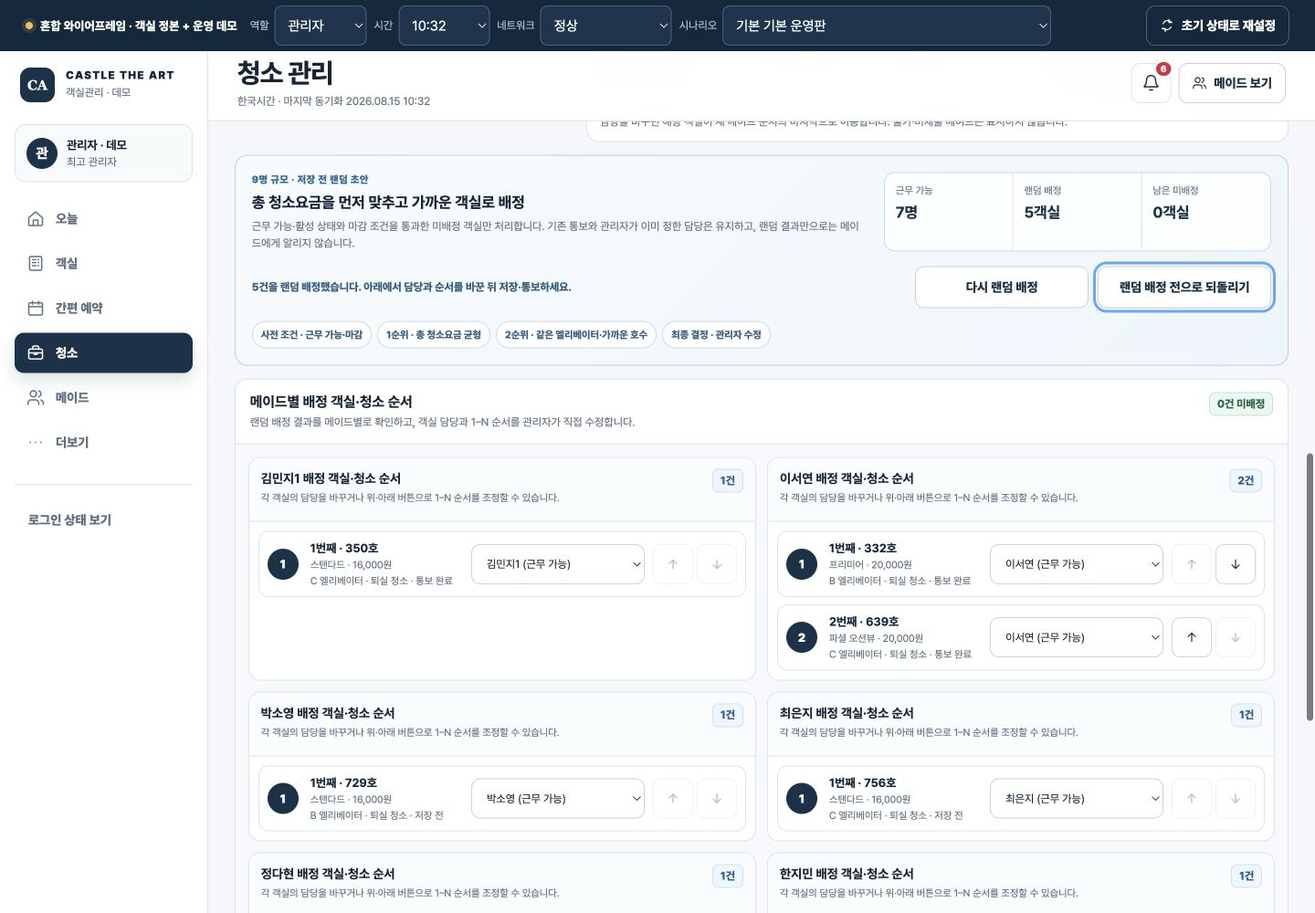
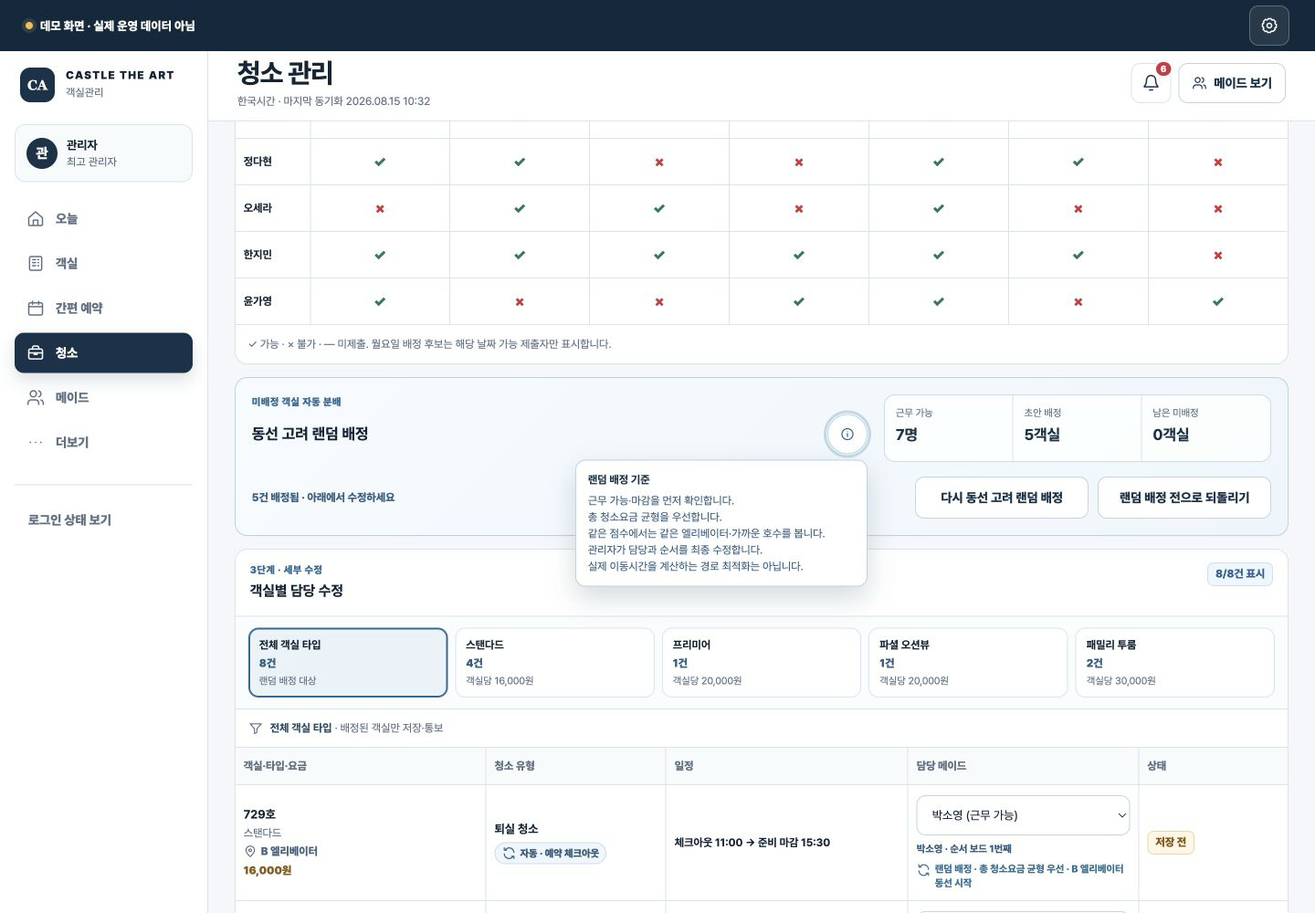
feat: 청소 배정 흐름을 단순화하라

diff --git a/WIREFRAME/index.html b/WIREFRAME/index.html
@@ -1122,10 +1122,10 @@
     .assignment-summary small { display:block; margin-top:2px; color:var(--subtle); font-size:12px; }
     .assignment-summary .summary-good strong { color:var(--green); }
     .assignment-summary .summary-warn strong { color:var(--red); }
-    .assignment-grid { display:grid; grid-template-columns:minmax(330px,.7fr) minmax(680px,1.45fr); gap:14px; align-items:start; }
     .assignment-panel { overflow:hidden; }
     .assignment-panel-head { display:flex; align-items:flex-start; gap:10px; padding:14px 16px; border-bottom:1px solid var(--line); }
     .assignment-panel-head > div { min-width:0; flex:1; }
+    .assignment-step-label { display:block; margin-bottom:4px; color:#2c6b94; font-size:11px; font-weight:900; letter-spacing:.04em; }
     .assignment-panel-head h3 { margin:0 0 2px; }
     .assignment-panel-head p { margin:0; color:var(--muted); font-size:12px; }
     .availability-matrix-wrap, .assignment-table-wrap { overflow:auto; }
@@ -1211,6 +1211,9 @@
     .maid-order-copy { min-width:0; display:grid; gap:2px; }
     .maid-order-copy strong { font-size:13px; line-height:1.35; }
     .maid-order-copy span { color:var(--muted); font-size:11px; line-height:1.4; }
+    .maid-order-item.has-schedule-attention { border-color:#a9c5df; background:#f8fbff; box-shadow:inset 3px 0 0 #245fa6; }
+    .maid-order-schedule-badges { display:flex; flex-wrap:wrap; gap:5px; margin:4px 0 3px; }
+    .maid-order-schedule-badges .schedule-priority-badge { max-width:100%; min-height:32px; padding:5px 8px; border-radius:9px; color:#fff; font-size:10px; white-space:normal; }
     .maid-order-controls { display:flex; gap:4px; }
     .maid-order-assignee { min-width:0; }
     .maid-order-assignee .select-control { width:100%; min-height:44px; font-size:12px; }
@@ -1224,8 +1227,19 @@
     .assignment-random { display:grid; grid-template-columns:minmax(0,1.35fr) minmax(330px,.85fr); gap:14px 18px; padding:18px; border-color:#b9d3e5; background:linear-gradient(135deg,#f7fbfe 0%,#edf6fb 100%); }
     .assignment-random-copy { min-width:0; }
     .random-kicker { display:block; margin-bottom:5px; color:#2c6b94; font-size:11px; font-weight:900; letter-spacing:.04em; }
-    .assignment-random h3 { margin:0 0 5px; font-size:1.05rem; }
+    .assignment-random-title-row { display:flex; align-items:center; justify-content:space-between; gap:7px; }
+    .assignment-random h3 { min-width:0; flex:1; margin:0; font-size:1.05rem; }
     .assignment-random p { margin:0; color:var(--muted); font-size:12px; line-height:1.55; }
+    .assignment-rule-help { position:relative; flex:0 0 auto; }
+    .assignment-rule-help-button { display:inline-grid; place-items:center; width:44px; height:44px; padding:0; border:0; border-radius:999px; color:#315d83; background:transparent; cursor:help; }
+    .assignment-rule-help-button:hover, .assignment-rule-help-button:focus-visible { background:#fff; box-shadow:inset 0 0 0 1px #b9d3e5; }
+    .assignment-rule-help-button:focus-visible { outline:3px solid rgba(31,111,155,.24); outline-offset:1px; }
+    .assignment-rule-tooltip { position:absolute; z-index:30; top:calc(100% + 6px); right:0; width:min(320px,calc(100vw - 40px)); padding:12px 13px; border:1px solid #b9d3e5; border-radius:11px; background:#fff; box-shadow:0 12px 28px rgba(24,45,69,.18); color:#315d83; font-size:12px; line-height:1.5; opacity:0; visibility:hidden; transform:translateY(-4px); transition:opacity .14s ease,transform .14s ease,visibility .14s ease; pointer-events:auto; }
+    .assignment-rule-tooltip::before { content:""; position:absolute; inset:-8px 0 auto; height:8px; }
+    .assignment-rule-tooltip strong { display:block; margin-bottom:5px; color:var(--navy); }
+    .assignment-rule-tooltip span { display:block; }
+    .assignment-rule-help:hover .assignment-rule-tooltip, .assignment-rule-help:focus-within .assignment-rule-tooltip { opacity:1; visibility:visible; transform:translateY(0); }
+    .assignment-rule-help.is-dismissed .assignment-rule-tooltip { opacity:0; visibility:hidden; transform:translateY(-4px); }
     .assignment-random-stats { display:grid; grid-template-columns:repeat(3,minmax(0,1fr)); overflow:hidden; border:1px solid #c6dce9; border-radius:12px; background:rgba(255,255,255,.8); }
     .assignment-random-stats > div { min-height:72px; padding:11px 12px; border-right:1px solid #d4e3ed; }
     .assignment-random-stats > div:last-child { border-right:0; }
@@ -1234,8 +1248,6 @@
     .assignment-random-actions { grid-column:1/-1; display:flex; align-items:center; gap:10px; padding-top:2px; }
     .random-live { min-width:0; flex:1; color:#315d83; font-size:12px; font-weight:750; }
     .assignment-random-actions .btn { min-width:190px; min-height:46px; }
-    .random-rule { grid-column:1/-1; display:flex; flex-wrap:wrap; gap:6px; }
-    .random-rule span { display:inline-flex; align-items:center; min-height:30px; padding:5px 9px; border:1px solid #c6dce9; border-radius:999px; color:#315d83; background:#fff; font-size:11px; font-weight:800; }
     .assignment-random-note { display:flex; align-items:flex-start; gap:4px; color:#2b6f94; font-size:11px; font-weight:800; line-height:1.4; }
     .assignment-random-note.is-warning { color:#9b5d09; }
     .assignment-random-note .icon { flex:0 0 auto; margin-top:1px; }
@@ -1306,9 +1318,6 @@
     .assigned-preview-grid span { display:block; color:var(--muted); font-size:12px; }
     .assigned-preview-grid strong { display:block; margin-top:2px; font-size:14px; }
 
-    @media (max-width:1280px) {
-      .assignment-grid { grid-template-columns:1fr; }
-    }
     @media (max-width:900px) {
       .assignment-random { grid-template-columns:1fr; }
       .assignment-random-actions { align-items:stretch; flex-direction:column; }
@@ -1343,8 +1352,6 @@
       .assignment-random { gap:12px; padding:14px; }
       .assignment-random-stats > div { min-height:66px; padding:9px; }
       .assignment-random-stats strong { font-size:.95rem; }
-      .random-rule { display:grid; grid-template-columns:repeat(2,minmax(0,1fr)); }
-      .random-rule span { justify-content:center; border-radius:9px; text-align:center; }
       .maid-order-board { grid-template-columns:1fr; padding:10px; }
       .maid-order-item { grid-template-columns:38px minmax(0,1fr); }
       .maid-order-assignee, .maid-order-controls { grid-column:2; }
@@ -1529,6 +1536,7 @@
         logout: '<path d="M10 17l5-5-5-5M15 12H3"/><path d="M15 3h4a2 2 0 0 1 2 2v14a2 2 0 0 1-2 2h-4"/>',
         candle: '<path d="M9 22V9h6v13M8 22h8M12 9c-2-2-1-5 1-7 1 2 3 3 2 5-.5 1-1.5 2-3 2z"/>',
         sync: '<path d="M20 11a8 8 0 0 0-14.8-4M4 3v4h4M4 13a8 8 0 0 0 14.8 4M20 21v-4h-4"/>',
+        info: '<circle cx="12" cy="12" r="9"/><path d="M12 11v5M12 8h.01"/>',
         lock: '<rect x="4" y="10" width="16" height="11" rx="2"/><path d="M8 10V7a4 4 0 0 1 8 0v3"/>'
       };
 
@@ -2533,7 +2541,7 @@
         root.querySelectorAll('p').forEach(paragraph=>{if(!paragraph.closest('.notice')&&/서버 영속|fixture|스냅샷|불변 사용자 ID|PIN lease|식별값|이력 연결키|원장 비연결|예약 가능과 현재 입실 가능을 별도로 판단|사진 원본은 앱에 저장하지 않음/.test(paragraph.textContent))paragraph.remove();});
         root.querySelectorAll('.meta').forEach(meta=>{if(/데모|스냅샷|정본/.test(meta.textContent))meta.remove();});
         addAdminHelp(root,'총 청소요금을 먼저 맞추고 가까운 객실로 배정','random-assignment','랜덤 배정','근무 가능한 메이드의 총 청소요금이 비슷해지도록 먼저 나누고, 같은 엘리베이터와 가까운 호수를 다음 기준으로 사용합니다. 결과는 저장 전에 담당과 순서를 바꿀 수 있습니다.',{rename:'랜덤 배정'});
-        addAdminHelp(root,'메이드별 배정 객실·청소 순서','assignment-result','배정 결과 수정','객실별 담당 메이드를 바꾸고 위·아래 버튼으로 1번부터 순서를 정하세요. 담당과 순서가 정해진 객실만 저장·통보됩니다.',{rename:'배정 결과 수정'});
+        addAdminHelp(root,'메이드별 청소 순서 수정','assignment-result','청소 순서 수정','얼리 체크인·레이트 체크아웃의 예정 시각을 먼저 확인하고, 객실별 담당 메이드를 바꾸거나 위·아래 버튼으로 1번부터 순서를 정하세요. 담당과 순서가 정해진 객실만 저장·통보됩니다.');
         addAdminHelp(root,'내일 청소 배정','next-day-assignment','내일 청소 배정','근무 가능일을 제출한 메이드에게만 배정할 수 있습니다. 랜덤 배정 뒤에도 객실별 담당과 메이드별 청소 순서를 직접 바꾼 다음 저장·통보하세요.');
         addAdminHelp(root,'주간 근무 기록','work-history','주간 근무 기록','명은 해당 기록이 있는 메이드 수이고, 일은 메이드별 기록 날짜를 합한 값입니다. 가능 제출·담당 통보·실근무 완료를 서로 다른 표시로 확인합니다.');
         addAdminHelp(root,'주별 지급 이력','weekly-pay','주별 지급 이력','월요일부터 일요일까지의 승인 청소를 합산합니다. 검수 대기는 예상액에만, 전체 반려와 본인 재청소는 0원으로 표시됩니다.');
@@ -3962,22 +3970,19 @@
         return `<span class="assignment-route-reference">${esc(maidName(assignment.maidId))} · 순서 보드 ${assignment.order}번째</span>${randomAssignmentNote(item)}`;
       }
       function maidOrderItemMarkup(item,ordered,index) {
-        const assignment=assignmentFor(item),context=assignmentContext(item),name=maidName(assignment.maidId),first=index===0,last=index===ordered.length-1,status=assignment.status==='notified'?'통보 완료':'저장 전';
-        return `<article class="maid-order-item"><span class="maid-order-number" aria-hidden="true">${assignment.order}</span><div class="maid-order-copy"><strong>${assignment.order}번째 · ${item.room}호</strong><span>${esc(context.type.name)} · ${money(context.type.rate)}</span><span>${esc(elevatorLabel(context.room))} · ${esc(item.kind)} · ${status}</span></div><label class="maid-order-assignee"><span class="sr-only">${item.room}호 담당 메이드 변경</span><select class="select-control" data-control="assignment-maid" data-location="board" data-target="${esc(item.id)}" aria-label="${item.room}호 ${esc(item.kind)} 담당 메이드 변경">${assignmentOptions(item)}</select></label><div class="maid-order-controls"><button class="assignment-order-btn" type="button" data-action="move-assignment-order" data-target="${esc(item.id)}" data-direction="up" aria-label="${esc(name)}의 ${item.room}호 청소 순서를 위로 이동" ${first?'disabled':''}>${icon('arrowUp','icon-sm')}</button><button class="assignment-order-btn" type="button" data-action="move-assignment-order" data-target="${esc(item.id)}" data-direction="down" aria-label="${esc(name)}의 ${item.room}호 청소 순서를 아래로 이동" ${last?'disabled':''}>${icon('arrowDown','icon-sm')}</button></div></article>`;
+        const assignment=assignmentFor(item),context=assignmentContext(item),name=maidName(assignment.maidId),first=index===0,last=index===ordered.length-1,status=assignment.status==='notified'?'통보 완료':'저장 전',scheduleBadges=assignmentSchedulePriorityBadges(item);
+        return `<article class="maid-order-item ${scheduleBadges.length?'has-schedule-attention':''}"><span class="maid-order-number" aria-hidden="true">${assignment.order}</span><div class="maid-order-copy"><strong>${assignment.order}번째 · ${item.room}호</strong>${scheduleBadges.length?`<div class="maid-order-schedule-badges" aria-label="${item.room}호 일정 주의">${scheduleBadges.join('')}</div>`:''}<span>${esc(context.type.name)} · ${money(context.type.rate)}</span><span>${esc(elevatorLabel(context.room))} · ${esc(item.kind)} · ${status}</span></div><label class="maid-order-assignee"><span class="sr-only">${item.room}호 담당 메이드 변경</span><select class="select-control" data-control="assignment-maid" data-location="board" data-target="${esc(item.id)}" aria-label="${item.room}호 ${esc(item.kind)} 담당 메이드 변경">${assignmentOptions(item)}</select></label><div class="maid-order-controls"><button class="assignment-order-btn" type="button" data-action="move-assignment-order" data-target="${esc(item.id)}" data-direction="up" aria-label="${esc(name)}의 ${item.room}호 청소 순서를 위로 이동" ${first?'disabled':''}>${icon('arrowUp','icon-sm')}</button><button class="assignment-order-btn" type="button" data-action="move-assignment-order" data-target="${esc(item.id)}" data-direction="down" aria-label="${esc(name)}의 ${item.room}호 청소 순서를 아래로 이동" ${last?'disabled':''}>${icon('arrowDown','icon-sm')}</button></div></article>`;
       }
       function renderRandomAssignmentCard() {
         const eligible=eligibleAssignmentMaids(),unassigned=assignmentTargets().filter(item=>!assignmentFor(item).maidId&&!roomIsOnHold(item.room)),summary=state.randomAssignmentSummary||{assigned:0,skipped:0},active=!!state.randomAssignmentSnapshot,disabled=state.role!=='admin'||isLocked()||!eligible.length||(!active&&!unassigned.length);
-        const actions=active?`${button('다시 랜덤 배정','random-assignments','outline',disabled?'disabled':'')}${button('랜덤 배정 전으로 되돌리기','undo-random-assignment','outline',disabled?'disabled':'')}`:button(`미배정 ${unassigned.length}건 랜덤 배정`,'random-assignments','primary',disabled?'disabled':'');
-        return `<section class="card assignment-random" aria-labelledby="assignment-random-title"><div class="assignment-random-copy"><span class="random-kicker">${MAIDS.length}명 규모 · 저장 전 랜덤 초안</span><h3 id="assignment-random-title">총 청소요금을 먼저 맞추고 가까운 객실로 배정</h3><p>근무 가능·활성 상태와 마감 조건을 통과한 미배정 객실만 처리합니다. 기존 통보와 관리자가 이미 정한 담당은 유지하고, 랜덤 결과만으로는 메이드에게 알리지 않습니다.</p></div><div class="assignment-random-stats"><div><span>근무 가능</span><strong>${eligible.length}명</strong></div><div><span>랜덤 배정</span><strong>${active?`${summary.assigned}객실`:'실행 전'}</strong></div><div><span>남은 미배정</span><strong>${active?`${summary.skipped}객실`:`${unassigned.length}객실`}</strong></div></div><div class="assignment-random-actions"><div class="random-live" aria-live="polite">${active?`${summary.assigned}건을 랜덤 배정했습니다. 아래에서 담당과 순서를 바꾼 뒤 저장·통보하세요.`:'여러 랜덤 후보 중 총 급여 격차가 가장 작은 안을 먼저 고르고, 같은 엘리베이터·가까운 호수를 다음 기준으로 사용합니다.'}</div>${actions}</div><div class="random-rule"><span>사전 조건 · 근무 가능·마감</span><span>1순위 · 총 청소요금 균형</span><span>2순위 · 같은 엘리베이터·가까운 호수</span><span>최종 결정 · 관리자 수정</span></div></section>`;
+        const actions=active?`${button('다시 동선 고려 랜덤 배정','random-assignments','outline',disabled?'disabled':'')}${button('랜덤 배정 전으로 되돌리기','undo-random-assignment','outline',disabled?'disabled':'')}`:button(`미배정 ${unassigned.length}건 동선 고려 랜덤 배정`,'random-assignments','primary',disabled?'disabled':'');
+        return `<section class="card assignment-random" aria-labelledby="assignment-random-title"><div class="assignment-random-copy"><span class="random-kicker">2단계 · 저장 전 랜덤 초안</span><div class="assignment-random-title-row"><h3 id="assignment-random-title">동선 고려 랜덤 배정</h3><div class="assignment-rule-help"><button class="assignment-rule-help-button" type="button" aria-label="랜덤 배정 기준 설명" aria-describedby="assignment-random-tooltip">${icon('info','icon-sm')}</button><div class="assignment-rule-tooltip" id="assignment-random-tooltip" role="tooltip"><strong>랜덤 배정 기준</strong><span>근무 가능·마감을 먼저 확인합니다.</span><span>총 청소요금 균형을 우선합니다.</span><span>같은 점수에서는 같은 엘리베이터·가까운 호수를 봅니다.</span><span>관리자가 담당과 순서를 최종 수정합니다.</span><span>실제 이동시간을 계산하는 경로 최적화는 아닙니다.</span></div></div></div><p>미배정 객실만 저장 전 초안으로 배정합니다.</p></div><div class="assignment-random-stats"><div><span>근무 가능</span><strong>${eligible.length}명</strong></div><div><span>초안 배정</span><strong>${active?`${summary.assigned}객실`:'실행 전'}</strong></div><div><span>남은 미배정</span><strong>${active?`${summary.skipped}객실`:`${unassigned.length}객실`}</strong></div></div><div class="assignment-random-actions"><div class="random-live" aria-live="polite">${active?`${summary.assigned}건을 랜덤 배정했습니다. 아래에서 담당과 순서를 바꾼 뒤 저장·통보하세요.`:'기존 통보와 관리자가 정한 담당은 유지하고 미배정 객실만 채웁니다.'}</div>${actions}</div></section>`;
       }
       function renderMaidOrderBoardContent() {
         const unassigned=assignmentTargets().filter(item=>!assignmentFor(item).maidId),assignedMaids=MAIDS.filter(maid=>orderedAssignmentsForMaid(maid.id).length);
         const lanes=assignedMaids.map(maid=>{const ordered=orderedAssignmentsForMaid(maid.id);return `<section class="maid-order-lane" id="maid-order-${maid.id}" aria-labelledby="maid-order-title-${maid.id}"><div class="maid-order-lane-head"><div><h4 id="maid-order-title-${maid.id}">${esc(maid.name)} 배정 객실·청소 순서</h4><p>각 객실의 담당을 바꾸거나 위·아래 버튼으로 1–N 순서를 조정할 수 있습니다.</p></div>${statusBadge(`${ordered.length}건`,'blue')}</div><div class="maid-order-list">${ordered.map((item,index)=>maidOrderItemMarkup(item,ordered,index)).join('')}</div></section>`;}).join('');
         const unassignedList=unassigned.length?unassigned.map(item=>{const context=assignmentContext(item);return `<span class="maid-order-unassigned-chip">${item.room}호 · ${esc(context.type.name)} · ${esc(elevatorLabel(context.room))} · ${money(context.type.rate)}</span>`;}).join(''):'<span class="maid-order-unassigned-chip">미배정 객실 없음</span>';
-        return `<section class="card maid-order-panel" aria-labelledby="maid-order-board-title"><div class="assignment-panel-head"><div><h3 id="maid-order-board-title">메이드별 배정 객실·청소 순서</h3><p>랜덤 배정 결과를 메이드별로 확인하고, 객실 담당과 1–N 순서를 관리자가 직접 수정합니다.</p></div>${statusBadge(`${unassigned.length}건 미배정`,unassigned.length?'red':'green')}</div><div class="maid-order-board ${lanes?'':'is-empty'}">${lanes||'<div class="maid-order-empty">아직 배정된 객실이 없습니다. 랜덤 배정하거나 위 객실 표에서 담당을 선택하세요.</div>'}</div><div class="maid-order-unassigned"><div><h4>아직 순서가 없는 객실</h4><p>미배정 상태로 남겨 두고 담당이 정해진 객실만 먼저 통보할 수 있습니다.</p></div><div class="maid-order-unassigned-list">${unassignedList}</div></div><div class="assignment-foot"><p>랜덤 배정은 저장 전 초안입니다. 담당과 연속 순서가 정해진 객실만 저장·통보합니다.</p>${button(`배정된 변경 ${assignmentTargets().filter(item=>assignmentHasNetChange(item)&&assignmentFor(item).maidId).length}건 저장·통보`,'save-assignments','primary',assignmentCanSave()?'':'disabled')}</div></section>`;
-      }
-      function renderMaidOrderBoard() {
-        return `${renderRandomAssignmentCard()}${renderMaidOrderBoardContent()}`;
+        return `<section class="card maid-order-panel" aria-labelledby="maid-order-board-title"><div class="assignment-panel-head"><div><span class="assignment-step-label">4단계 · 세부 수정</span><h3 id="maid-order-board-title">메이드별 청소 순서 수정</h3><p>얼리 체크인·레이트 체크아웃의 조정된 예정 시각을 먼저 확인하고, 객실 담당과 1–N 순서를 직접 수정합니다.</p></div>${statusBadge(`${unassigned.length}건 미배정`,unassigned.length?'red':'green')}</div><div class="maid-order-board ${lanes?'':'is-empty'}">${lanes||'<div class="maid-order-empty">아직 배정된 객실이 없습니다. 랜덤 배정하거나 위 객실 표에서 담당을 선택하세요.</div>'}</div><div class="maid-order-unassigned"><div><h4>아직 순서가 없는 객실</h4><p>미배정 상태로 남겨 두고 담당이 정해진 객실만 먼저 통보할 수 있습니다.</p></div><div class="maid-order-unassigned-list">${unassignedList}</div></div><div class="assignment-foot"><p>랜덤 배정은 저장 전 초안입니다. 담당과 연속 순서가 정해진 객실만 저장·통보합니다.</p>${button(`배정된 변경 ${assignmentTargets().filter(item=>assignmentHasNetChange(item)&&assignmentFor(item).maidId).length}건 저장·통보`,'save-assignments','primary',assignmentCanSave()?'':'disabled')}</div></section>`;
       }
       function assignmentCounts() {
         const targets=assignmentTargets(),rows=targets.map(assignmentFor),assigned=rows.filter(item=>item.maidId).length,notified=targets.filter(item=>committedAssignmentFor(item)).length;
@@ -4120,7 +4125,7 @@
         const rows=visibleTargets.map(item=>{const assignment=assignmentFor(item),context=assignmentContext(item),status=assignment.status==='notified'?'통보 완료':assignment.maidId?'저장 전':'미배정',tone=assignment.status==='notified'?'green':assignment.maidId?'amber':'red';return `<tr><td data-label="객실·타입·요금"><div class="assignment-cell-stack"><strong>${item.room}호</strong><span class="assignment-room-type">${esc(context.type.name)}</span><span class="assignment-elevator">${icon('mapPin','icon-sm')}${esc(elevatorLabel(context.room))}</span><span class="assignment-fee">${money(context.type.rate)} · 8월 시트</span></div></td><td data-label="청소 정보"><div class="assignment-cell-stack"><strong>${esc(item.kind)}</strong>${assignmentSourceMarkup(item)}</div></td><td data-label="일정">${assignmentScheduleMarkup(item)}</td><td data-label="담당 메이드"><div class="assignment-assignee"><select class="select-control" data-control="assignment-maid" data-location="table" data-target="${esc(item.id)}" aria-label="${item.room}호 ${esc(item.kind)} 담당 메이드 · 근무 가능 제출자만 표시">${assignmentOptions(item)}</select>${assignmentRouteReference(item)}</div></td><td data-label="상태">${statusBadge(status,tone)}${assignment.maidId?'<span class="cell-sub">순서 보드 반영</span>':''}</td></tr>`;}).join('');
         const history=state.assignmentHistory.map(entry=>`<div class="assignment-history-row"><strong>${esc(entry.time)}</strong><span>${esc(entry.room)}호</span><span>${esc(entry.before)} → ${esc(entry.after)}</span><span>${esc(entry.reason)}</span></div>`).join('');
         const emptyRows=`<tr><td colspan="5"><div class="inline-empty"><h3>이 타입의 청소대상이 없습니다</h3><p>다른 타입을 선택하거나 전체 객실을 확인하세요.</p></div></td></tr>`;
-        return `<div class="assignment-page"><div class="assignment-intro"><div><h2>내일 청소 배정</h2><p>${dateLabel(state.assignmentDate)} · 랜덤 초안을 확인한 뒤 담당과 메이드별 순서를 관리자가 확정합니다.</p></div><div class="job-actions">${button('주간 근무 기록','go-work-history','outline')}${button('청소대상 직접 등록','new-cleaning','outline')}</div></div><section class="card assignment-summary"><div><span>다음 주 가능일 제출</span><strong>${counts.submitted} / ${MAIDS.length}</strong><small>메이드 제출 현황</small></div><div><span>내일 청소 대상 객실</span><strong>${counts.total}</strong><small>자동 ${counts.automatic} · 직접 ${counts.manual}</small></div><div class="summary-good"><span>담당 선택</span><strong>${counts.assigned}</strong><small>통보 완료 ${counts.notified}건</small></div><div class="summary-warn"><span>미배정</span><strong>${counts.unassigned}</strong><small>대기 유지 · 후속 배정 가능</small></div></section><section class="assignment-target-rule" aria-label="청소대상 자동 구성과 랜덤 배정 기준">${icon('sync')}<div><strong>총 청소요금을 먼저 맞추고, 같은 엘리베이터·가까운 호수를 다음 기준으로 배정합니다.</strong><p>내일 체크아웃·연박 신청 객실은 자동 포함됩니다. 랜덤 결과에서 관리자가 담당과 1–N 순서를 바꾼 뒤, 준비된 객실만 저장·통보할 수 있습니다.</p></div><div class="badge-row">${statusBadge(`체크아웃 ${counts.checkout}`,'blue')}${statusBadge(`연박 ${counts.stayover}`,'neutral')}${statusBadge(`직접 ${counts.manual}`,'amber')}</div></section><div class="assignment-grid"><section class="card assignment-panel"><div class="assignment-panel-head"><div><h3>메이드 주간 근무표</h3><p>8월 17일–23일 · Asia/Seoul</p></div>${statusBadge(`${counts.submitted}/${MAIDS.length} 제출`,counts.submitted===MAIDS.length?'green':'amber')}</div>${renderAvailabilityMatrix()}</section><section class="card assignment-panel"><div class="assignment-panel-head"><div><h3>청소대상 객실 · 담당 수정</h3><p>얼리·레이트·연박 청소 일정은 해당 객실 행에서 함께 확인합니다.</p></div>${statusBadge(`${visibleTargets.length}/${targets.length}건 표시`,'blue')}</div>${assignmentTypeFiltersMarkup()}<div class="assignment-filter-context">${icon('filter','icon-sm')}<span><strong>${activeType?esc(activeType.name):'전체 객실 타입'}</strong> ${visibleTargets.length}건 표시 · 전체 ${targets.length}건 현황을 유지하며 배정된 객실만 통보합니다.</span></div><div class="assignment-table-wrap"><table class="assignment-table"><thead><tr><th scope="col">객실·타입·요금</th><th scope="col">청소 정보·등록 근거</th><th scope="col">일정</th><th scope="col">담당 메이드</th><th scope="col">상태</th></tr></thead><tbody>${rows||emptyRows}</tbody></table></div><div class="assignment-foot"><p>담당을 바꾸면 해당 객실이 새 메이드 순서의 마지막으로 이동합니다. 불가·미제출 메이드는 표시하지 않습니다.</p></div></section></div>${renderMaidOrderBoard()}<section class="card assignment-history"><div class="assignment-panel-head"><div><h3>배정·순서 통보 이력</h3><p>담당과 청소 순서의 이전 값을 덮어쓰지 않고 변경 이력을 추가합니다.</p></div>${statusBadge('관리자 전용','neutral')}</div><div class="assignment-history-list">${history}</div></section></div>`;
+        return `<div class="assignment-page"><div class="assignment-intro"><div><h2>내일 청소 배정</h2><p>${dateLabel(state.assignmentDate)} · 근무표 확인 → 동선 고려 랜덤 초안 → 담당·순서 수정 → 저장·통보</p></div><div class="job-actions">${button('주간 근무 기록','go-work-history','outline')}${button('청소대상 직접 등록','new-cleaning','outline')}</div></div><section class="card assignment-summary"><div><span>다음 주 가능일 제출</span><strong>${counts.submitted} / ${MAIDS.length}</strong><small>메이드 제출 현황</small></div><div><span>내일 청소 대상 객실</span><strong>${counts.total}</strong><small>자동 ${counts.automatic} · 직접 ${counts.manual}</small></div><div class="summary-good"><span>담당 선택</span><strong>${counts.assigned}</strong><small>통보 완료 ${counts.notified}건</small></div><div class="summary-warn"><span>미배정</span><strong>${counts.unassigned}</strong><small>대기 유지 · 후속 배정 가능</small></div></section><section class="assignment-target-rule" aria-label="청소대상 자동 구성">${icon('sync')}<div><strong>내일 체크아웃·연박 신청 객실을 자동으로 모읍니다.</strong><p>현장 요청은 직접 등록할 수 있고, 얼리·레이트·연박 일정은 해당 객실 행에서 확인합니다.</p></div><div class="badge-row">${statusBadge(`체크아웃 ${counts.checkout}`,'blue')}${statusBadge(`연박 ${counts.stayover}`,'neutral')}${statusBadge(`직접 ${counts.manual}`,'amber')}</div></section><section class="card assignment-panel"><div class="assignment-panel-head"><div><span class="assignment-step-label">1단계</span><h3>메이드 주간 근무표</h3><p>8월 17일–23일 · Asia/Seoul</p></div>${statusBadge(`${counts.submitted}/${MAIDS.length} 제출`,counts.submitted===MAIDS.length?'green':'amber')}</div>${renderAvailabilityMatrix()}</section>${renderRandomAssignmentCard()}<section class="card assignment-panel"><div class="assignment-panel-head"><div><span class="assignment-step-label">3단계 · 세부 수정</span><h3>객실별 담당 수정</h3><p>랜덤 초안 뒤 필요한 객실만 조정합니다. 얼리·레이트·연박 일정은 해당 객실 행에서 함께 확인합니다.</p></div>${statusBadge(`${visibleTargets.length}/${targets.length}건 표시`,'blue')}</div>${assignmentTypeFiltersMarkup()}<div class="assignment-filter-context">${icon('filter','icon-sm')}<span><strong>${activeType?esc(activeType.name):'전체 객실 타입'}</strong> ${visibleTargets.length}건 표시 · 전체 ${targets.length}건 현황을 유지하며 배정된 객실만 통보합니다.</span></div><div class="assignment-table-wrap"><table class="assignment-table"><thead><tr><th scope="col">객실·타입·요금</th><th scope="col">청소 정보·등록 근거</th><th scope="col">일정</th><th scope="col">담당 메이드</th><th scope="col">상태</th></tr></thead><tbody>${rows||emptyRows}</tbody></table></div><div class="assignment-foot"><p>담당을 바꾸면 해당 객실이 새 메이드 순서의 마지막으로 이동합니다. 불가·미제출 메이드는 표시하지 않습니다.</p></div></section>${renderMaidOrderBoardContent()}<section class="card assignment-history"><div class="assignment-panel-head"><div><h3>배정·순서 통보 이력</h3><p>담당과 청소 순서의 이전 값을 덮어쓰지 않고 변경 이력을 추가합니다.</p></div>${statusBadge('관리자 전용','neutral')}</div><div class="assignment-history-list">${history}</div></section></div>`;
       }
       function cleaningTabButton(id,label,count) { return `<button type="button" role="tab" data-action="cleaning-tab" data-tab="${id}" aria-selected="${state.cleaningTab===id}">${label} ${count}</button>`; }
       function renderCleaningHub() {
@@ -6098,6 +6103,21 @@
         if(!paymentSwitch||paymentSwitch.disabled||!['Enter',' '].includes(e.key))return;
         e.preventDefault();e.stopImmediatePropagation();paymentSwitch.click();
       });
+      document.addEventListener('keydown',e=>{
+        const ruleHelp=e.target.closest?.('.assignment-rule-help')||document.querySelector('.assignment-rule-help:hover');
+        if(!ruleHelp||e.key!=='Escape')return;
+        e.preventDefault();e.stopImmediatePropagation();ruleHelp.classList.add('is-dismissed');
+      });
+      document.addEventListener('pointerover',e=>{
+        const ruleHelp=e.target.closest?.('.assignment-rule-help');
+        if(ruleHelp&&!ruleHelp.contains(e.relatedTarget))ruleHelp.classList.remove('is-dismissed');
+      });
+      document.addEventListener('pointerout',e=>{
+        const ruleHelp=e.target.closest?.('.assignment-rule-help');
+        if(ruleHelp&&!ruleHelp.contains(e.relatedTarget))ruleHelp.classList.remove('is-dismissed');
+      });
+      document.addEventListener('focusin',e=>e.target.closest?.('.assignment-rule-help')?.classList.remove('is-dismissed'));
+      document.addEventListener('click',e=>e.target.closest?.('.assignment-rule-help-button')?.parentElement.classList.remove('is-dismissed'));
       document.addEventListener('visibilitychange',()=>{if(document.hidden&&state.pinVisibleRoom){maskPin();render();}});
       window.addEventListener('pagehide',maskPin);
       document.addEventListener('keydown',e=>{

diff --git a/WIREFRAME/QA.md b/WIREFRAME/QA.md
@@ -1,14 +1,14 @@
 # 클릭형 와이어프레임 QA
 
 - 검증일: 2026-08-18
-- 문서 갱신일: 2026-08-18 · 객실 카드 4상태·일정 배지, 관리자·메이드 설명 간소화·`ⓘ` 도움말, 주간 예약 기록, 건물 지도 기준 엘리베이터 미기재 11실 보완
+- 문서 갱신일: 2026-08-18 · 객실 카드 4상태·일정 배지, 관리자·메이드 설명 간소화·`ⓘ` 도움말, 주간 예약 기록, 건물 지도 기준 엘리베이터 미기재 11실 보완, 근무표 다음 랜덤 초안·순서 보드 얼리/레이트 시각 검증 추가
 - 대상: `WIREFRAME/index.html`
 - 정책: `DOCS/16_WEEKLY_AVAILABILITY_ASSIGNMENT_POLICY.md`, `DOCS/18_TYPE_PHOTO_TEMPLATE_POLICY.md`
 - 객실·단가 정본: `DOCS/17_ROOM_CATALOG_LONG_STAY_DECISIONS.md`
 - 관련 이슈: GitHub issue #2, #4, #6, #8, #10, #12, #14, #16, #18, #20
 - 실행: `python3 scripts/serve.py` → `http://127.0.0.1:4173/index.html`
 - 상호작용 브라우저: Codex 인앱 브라우저, Google Chrome 151 headless + Playwright
-- 스크린샷: 기존 배정·예약·객실 특이사항 PNG에 더해 객실 정보 수정·수동 체크아웃·랜덤 배정·청소비 예상 지출·간편 예약·예약 취소·객실 카드 4상태·연박 진행·전날 배정 일정 배지, 관리자·메이드 설명 간소화·`ⓘ` 도움말, 메이드 구역별 즉시 카메라, 객실별 주간 예약 탐색 화면을 저장했다. `ⓘ` 상호작용과 관리자·메이드·주간 예약 360/390/768/1440px 반응형 행렬은 Codex 인앱 브라우저에서 확인했고, 이전 객실 특이사항 파일 선택과 청소비 카드의 Enter·Space 활성화는 같은 로컬 URL의 Chrome + Playwright로 검증했다.
+- 스크린샷: 기존 배정·예약·객실 특이사항 PNG에 더해 객실 정보 수정·수동 체크아웃·청소비 예상 지출·간편 예약·예약 취소·객실 카드 4상태·연박 진행·전날 배정 일정 배지, 관리자·메이드 `ⓘ` 도움말, 메이드 구역별 즉시 카메라, 객실별 주간 예약 탐색, 1440×1000·390×844 근무표 다음 랜덤 초안과 390×844 얼리/레이트 시각이 보이는 메이드별 순서 수정 화면을 저장했다. 도움말·주간 예약·이번 청소 배정 흐름의 360/390/768/1440px 반응형 행렬은 Codex 인앱 브라우저에서 확인했고, 이전 객실 특이사항 파일 선택과 청소비 카드의 Enter·Space 활성화는 같은 로컬 URL의 Chrome + Playwright로 검증했다.
 
 > 8월 객실 마스터 반영 전의 회귀 기록과 PNG에 쓰인 데모 객실번호는 당시 fixture 식별자다. 현재 동일 시나리오는 `1208→117`, `201→350`, `202→332`, `203→528`, `301→536`, `302→639`, `401→142`, `402→211`, `412→352`로 실제 8월 객실에 매핑했다. 아래 기존 기록은 당시 실제 확인 근거로 보존하고, 현재 객실 마스터·위치 표시는 다음 절에서 별도로 재검증했다.
 
@@ -161,7 +161,7 @@
 | 항목 | 결과 | 실제 확인 내용 |
 |---|---|---|
 | 비교판 미노출 | 통과 | `.assignment-workload`, `.maid-type-summary` 0건. 메이드별 타입 수·총 객실 수·총 청소비·예상시간·엘리베이터를 나란히 보여주는 별도 비교판 없음 |
-| 배정 기준 반영 | 통과 | 랜덤 카드에는 `1순위 · 총 청소요금 균형`, `2순위 · 같은 엘리베이터·가까운 호수`만 기준으로 표시하고 메이드별 합계 비교표는 노출하지 않음 |
+| 배정 기준 노출 | 통과 | 상시 기준 칩 0건. 제목 옆 `랜덤 배정 기준 설명` 버튼 한 개의 툴팁에 근무 가능·마감, 총 청소요금 균형, 동점 시 같은 엘리베이터·가까운 호수, 관리자 최종 수정, 실제 이동시간 비최적화 경계를 묶고 메이드별 합계 비교표는 노출하지 않음 |
 | 관리자 편집 유지 | 통과 | 211호를 메이드별 결과 보드에서 미배정으로 되돌리자 담당 8→7건·미배정 0→1건으로 바뀌고 나머지 네 랜덤 배정만 저장 대상으로 유지 |
 | 수동 편집 포커스 | 통과 | 보드 담당 드롭다운 변경 뒤 같은 객실의 새 보드 드롭다운으로 포커스 복원. 랜덤 되돌리기는 수동 편집 즉시 폐기되어 관리자 변경을 덮지 않음 |
 | 역할 권한 | 정적 확인 | 랜덤 실행·되돌리기·담당 변경·순서 변경·저장 핸들러가 관리자·최신 상태를 다시 검사하고 메이드 화면 렌더 경로에는 이 컨트롤을 넣지 않음 |
@@ -177,6 +177,7 @@
 | 객실 정보 | 통과 | 각 담당 행의 첫 열에 객실 호수·전체 타입명·고정 청소 요금을 묶고 청소 유형·등록 근거·특수 입퇴실 일정 유지 |
 | 담당과 순서 분리 | 통과 | 객실 표 내부 순서 이동 버튼 0개, 별도 메이드 보드 순서 이동 버튼 6개 확인 |
 | 담당 변경 연동 | 통과 | 패밀리 필터에서 401호를 김민지1에게 지정하자 김민지1 보드 마지막 2번째로 추가되고 미배정 수가 3→2로 감소 |
+| 순서 보드 일정 강조 | 통과 | 김민지1 보드 350호에 `얼리 체크인 15:00 · 1시간 빠름`, 이서연 보드 332호에 `레이트 체크아웃 13:00 · 2시간 늦음`을 색과 문구·시각이 함께 있는 우선 배지로 표시했다. 기본 11:00/16:00인 639호는 배지 0건이었다. 332호 순서를 아래로 옮긴 뒤에도 레이트 배지가 같은 객실을 따랐고, 350호 담당을 이서연으로 바꾸자 얼리 배지가 새 레인의 마지막 순서로 함께 이동했다. |
 | 메이드별 이동 | 통과 | 401호 위 이동 후 김민지1 보드가 401호 1번째·201호 2번째로 바뀌고 포커스가 401호 아래 이동 버튼으로 복원 |
 | 필터 밖 저장 | 통과 | 스탠다드 2행만 보이는 상태에서도 필터 밖 401호를 배정하면 그 저장 전 배정이 부분 통보 대상에 포함되고, 미배정 402·412호는 대기 유지 |
 | 직접 등록 | 통과 | 패밀리 필터 상태에서 1208호 퇴실 청소를 추가하자 프리미엄 타입 2건으로 자동 전환하고 새 담당 선택에 포커스 복원 |
@@ -289,7 +290,7 @@
 | 360px | 통과 | 타입 필터 2열·메이드 보드 1열, 페이지 가로 넘침 없음, 이름 없는 컨트롤 0개, 보이는 활성 컨트롤 44px 미만 0개 |
 | 390px | 통과 | 배정 표는 객실 카드로, 순서는 별도 메이드별 세로 보드로 전환되고 이동 버튼 6개 유지 |
 | 768px | 통과 | 타입 필터 5열·메이드 순서 보드 2열, 페이지 가로 넘침 없음 |
-| 1440px | 통과 | 가능일 매트릭스와 타입별 담당 표 2열, 그 아래 메이드별 순서 보드 2열, 페이지 가로 넘침 없음 |
+| 1440px | 통과 | 근무표 → 랜덤 초안 → 객실별 담당 수정 → 메이드별 순서 수정은 한 열 순서를 유지하고, 메이드별 순서 레인만 가용 폭에서 2열로 확장. 페이지 가로 넘침 없음 |
 | 콘솔 | 통과 | 인앱 브라우저 warning/error 0건 |
 | 모달 키보드 | 통과 | 청소대상 직접 등록 대화상자에서 Escape 닫기 후 원래 `청소대상 직접 등록` 버튼으로 포커스 복원 |
 | 브라우저 뒤로가기 | 통과 | 배정 화면 → 주간 근무 기록 → 뒤로가기 후 `내일 청소 배정`과 URL 복원 |
@@ -465,6 +466,22 @@
 | 360·390·768·1440px | 통과 | 네 너비 모두 문서 가로 넘침 0px이고 간편 예약표만 내부 가로 스크롤했다. 390px 예약·취소 모달은 화면 너비에 맞고 모든 하단 버튼 높이가 44px 이상이었다. |
 | 콘솔·정적 문구 계약 | 통과 | 위 흐름과 네 반응형 너비를 확인한 뒤 브라우저 warning/error 0건이었다. 정적 검사에는 제거 대상 관리자 문구가 다시 들어오면 실패하는 회귀 조건을 추가했다. |
 
+## 추가 검증 · 근무표 다음 동선 고려 랜덤 배정 흐름
+
+> 2026-08-18 로컬 HTTP의 인앱 브라우저에서 관리자 전날 배정을 실제 조작했다. 랜덤 결과는 저장 전 데모 초안이며 실제 메이드 통보나 외부 배차를 실행하지 않는다.
+
+| 항목 | 결과 | 실제 확인 내용 |
+|---|---|---|
+| 화면 순서 | 통과 | DOM과 시각 순서가 `메이드 주간 근무표 → 동선 고려 랜덤 배정 → 객실별 담당 수정 → 메이드별 청소 순서 수정 → 저장·통보`로 고정됐다. 최신 `main` 통합본의 제목 문서 Y좌표는 360px `633 < 1311 < 1632 < 5101`, 390px `633 < 1293 < 1614 < 5083`, 768px `497 < 1144 < 1480 < 2826`, 1440px `526 < 1173 < 1345 < 2614` 순이었다. |
+| 랜덤 초안 경계 | 통과 | 초기 통보 3건·미배정 5건에서 실행 후 담당 8건·미배정 0건, 랜덤 표시 5건이 됐다. 저장 전 이력은 3건 그대로였고 기존 350호 김민지1, 332·639호 이서연 담당은 보존됐다. |
+| 세부 수정 | 통과 | 랜덤 결과 뒤 729호 담당을 김민지1로 바꾸자 새 레인 마지막에 배치됐고, 위 이동 뒤 모든 레인의 순번은 다시 1–N으로 연속화됐다. 수동 편집 즉시 랜덤 되돌리기 초안은 폐기되고 같은 객실 담당 선택과 이동 버튼으로 포커스가 복원됐다. |
+| 저장·통보 | 통과 | 초안 실행만으로 이력·메이드 알림을 만들지 않았다. 세부 수정 뒤 변경 6건을 저장·통보하자 이력이 3→9건으로 늘고 저장 버튼이 비활성화됐으며, 기존 통보 3건은 덮어쓰지 않았다. |
+| 기준 툴팁 | 통과 | `사전 조건 / 1순위 / 2순위 / 관리자 수정` 상시 칩은 0건이다. 44×44px `랜덤 배정 기준 설명` 버튼의 hover·focus·클릭에서 연결된 `role="tooltip"`이 열리고 설명문 위로 포인터를 옮겨도 유지되며 `Escape`로 닫혔다. 390px에서 좌우 `43–363px` 안에 근무 가능·마감, 요금 균형, 동점 시 엘리베이터·호수, 관리자 수정, 실제 이동시간 비최적화 설명이 모두 들어갔다. |
+| 순서 조정 일정 배지 | 통과 | 메이드별 순서 카드에도 350호 `얼리 체크인 15:00 · 1시간 빠름`, 332호 `레이트 체크아웃 13:00 · 2시간 늦음`을 먼저 표시했다. 639호 기본 시각은 무배지였고, 순서 이동·담당 변경 뒤에도 배지가 해당 객실과 함께 이동했다. |
+| 360·390·768·1440px | 통과 | 네 너비 모두 문서 가로 넘침 0px, 일정 배지 잘림 0건, 상시 기준 칩 0건, 이름 없는 배정 컨트롤 0건, 보이는 활성 배정 컨트롤 최소 높이 44px였다. 메이드 순서 레인은 720px 이하 한 열, 넓은 화면에서 가용 폭에 맞춰 확장됐다. |
+| 접근성·콘솔·구문 | 통과 | 정보 버튼·담당 선택·순서 이동의 접근성 이름과 포커스 복원을 확인했다. 브라우저 warning/error 0건, 단일 인라인 스크립트 `new Function` 구문 분석을 통과했다. |
+| 대표 PNG | 통과 | `admin-random-assignment-1440.png`, `admin-random-assignment-390.png`, `admin-maid-order-board-390.png`를 최신 흐름과 일정 배지 상태로 다시 저장하고 시각 확인했다. |
+
 ## 추가 검증 · 객실 카드 4개 주 상태·일정 우선 배지
 
 > 2026-08-18 로컬 HTTP의 인앱 브라우저에서 관리자 객실 카드와 전날 청소 배정 화면을 실제 조작했다. 객실·예약·청소·담당 데이터는 기능 확인용 데모이며 실제 OTA/PMS·청소 통보·서버 데이터는 변경하지 않는다.
@@ -509,12 +526,12 @@
 
 | 비교 지점 | 기준과 구현 비교 |
 |---|---|
-| 정보 구조 | 관리자 `청소` 활성·상단 요약·가능일 매트릭스·배정 표를 유지하고, 배정 표 아래에 메이드별 순서 보드를 추가했다. |
+| 정보 구조 | 관리자 `청소` 활성·상단 요약 뒤에 `근무표 → 동선 고려 랜덤 초안 → 객실별 담당 수정 → 메이드별 순서 수정`의 한 열 운영 흐름을 두었다. |
 | 배정 정보 밀도 | 5열 표의 첫 열에 객실 호수·전체 타입명·요금을 묶고 청소 유형·자동/직접 등록 근거·일정·담당·상태를 분리했다. |
 | 자동 구성 안내 | 요약 바로 아래 얇은 파란 안내 띠에 체크아웃·연박·직접 등록 수를 배치해 기존 카드/표 구조를 바꾸지 않았다. |
 | 후보 제한 | 기준의 가능/불가 상태를 유지하되 최신 결정에 따라 드롭다운은 가능 제출자만 노출한다. |
 | 타입별 보기 | 기존 얇은 선·카드 토큰으로 `전체 + 네 타입` 필터를 만들고 대상 수와 객실당 고정 요금을 한눈에 비교하게 했다. |
-| 청소 순서 | 객실 행의 이동 버튼을 제거하고 별도 메이드별 보드에서 순번·객실·타입·요금과 위/아래 버튼을 한 묶음으로 보여준다. |
+| 청소 순서 | 객실 행의 이동 버튼을 제거하고 별도 메이드별 보드에서 순번·객실·타입·요금·얼리/레이트 조정 예정 시각과 위/아래 버튼을 한 묶음으로 보여준다. |
 | 업무 분장 | 메이드별 작업량·동선 비교판은 제거하고, 랜덤 초안 카드와 메이드별 객실·1–N 순서 보드를 관리자의 최종 조정 지점으로 사용한다. |
 | 근무 기록 | 같은 카드 경계·얇은 선·상태색을 사용해 주차/사람 필터와 7일 기록을 별도 관리자 탭으로 확장했다. |
 | 반응형 | 데스크톱 타입 필터·메이드 보드를 모바일 2열 필터·1열 순서 보드로 전환하고, 7일 가로 기록은 날짜별 세로 행으로 바꿨다. |
@@ -553,9 +570,9 @@
 - `QA/screenshots/maid-room-issue-multi-photo-390.png`: 메이드가 등록한 객실 특이사항 메모·이미지 2장과 관리자 확인 대기 상태 390×844
 - `QA/screenshots/admin-room-issue-gallery-1440.png`: 관리자 203호 객실 상세의 동일 특이사항 기록·이미지 갤러리 1440×1000
 - `QA/screenshots/admin-assignment-type-filter-1440.png`: 정본 단가 확정 전 패밀리 타입 필터·담당 선택 구조 캡처 · 현재 금액 증거 아님
-- `QA/screenshots/admin-maid-order-board-390.png`: 관리자 모바일의 김민지1·이서연별 연속 순번과 위·아래 이동 보드 390×844
-- `QA/screenshots/admin-random-assignment-1440.png`: 총 청소요금 우선 랜덤 초안과 메이드별 객실·담당·1–N 순서 보드 데스크톱 1440×1000 · 실제 브라우저 캡처
-- `QA/screenshots/admin-random-assignment-390.png`: 같은 랜덤 기준·되돌리기·메이드별 결과 보드 모바일 390×844 · 실제 브라우저 캡처
+- `QA/screenshots/admin-maid-order-board-390.png`: 관리자 모바일 순서 수정에서 350호 얼리 체크인 15:00·332호 레이트 체크아웃 13:00 배지와 연속 순번·위/아래 이동을 함께 보여 주는 390×844 · 실제 브라우저 캡처
+- `QA/screenshots/admin-random-assignment-1440.png`: 근무표 바로 다음 동선 고려 랜덤 초안, 열린 단일 기준 툴팁, 그 아래 객실별 담당 수정을 보여 주는 데스크톱 1440×1000 · 실제 브라우저 캡처
+- `QA/screenshots/admin-random-assignment-390.png`: 같은 `근무표 → 랜덤 초안 → 세부 수정` 순서와 열린 기준 툴팁·되돌리기 행동을 보여 주는 모바일 390×844 · 실제 브라우저 캡처
 - `QA/screenshots/admin-partial-assignment-390.png`: 401호만 저장 전 배정된 상태에서 402·412호 미배정 대기와 활성 `배정된 객실만 저장·통보`가 공존하는 모바일 390×844
 - `QA/screenshots/admin-weekly-worktable-symbols-390.png`: 관리자 모바일 `메이드 주간 근무표`의 `✓ / ×` 도형 전용 셀과 전체 7일 표시 390×844
 - `QA/screenshots/admin-auto-early-late-1440.png`: 한 예약 ID의 `1. 체크인 일시 → 2. 체크아웃 일시` 순서와 자동 판정 안내를 보여 주는 예약 대화상자 1440×1000

diff --git a/DOCS/16_WEEKLY_AVAILABILITY_ASSIGNMENT_POLICY.md b/DOCS/16_WEEKLY_AVAILABILITY_ASSIGNMENT_POLICY.md
@@ -17,16 +17,17 @@
 4. 시스템은 배정 대상일에 예정 체크아웃하거나 관리자가 `지금 체크아웃`으로 실제 점유를 종료한 객실과 해당 날짜에 투숙 중 청소를 신청한 객실을 `청소대상 객실`에 자동 포함한다. 같은 예약의 예정·수동 체크아웃은 활성 퇴실 청소 한 건을 공유하며 중복 작업을 만들지 않는다.
    - 이 자동 집계는 객실 카드의 주 상태와 무관하게 청소 대상 원장을 기준으로 실행한다. 얼리 체크인·레이트 체크아웃이 있으면 조정된 실제 예정 시각과 기준 대비 차이를 같은 배정 행에 자동 집계한다. 얼리·레이트 표식만으로 별도 청소 작업을 만들지 않는다.
 5. 관리자는 자동 대상 외 현장 요청을 같은 화면에서 직접 등록해 추가할 수 있다. 검수 반려로 생기는 재청소는 직접 등록 대상이 아니라 최초 청소한 메이드에게 자동 귀속한다. 동일 대상일·객실·청소 유형의 중복 등록은 차단한다.
-6. 관리자는 `전체`와 확정된 네 객실 타입 필터로 청소대상을 좁혀 보며, 각 타입의 대상 수와 객실당 고정 청소 요금을 함께 확인한다. 필터는 표시만 바꾸고 전체 대상의 담당 상태·미배정 현황·순서를 바꾸지 않는다.
-7. 각 근무일 전날 밤, 관리자는 미배정 청소대상에 `랜덤 배정 초안`을 적용할 수 있다. 초안은 해당 날짜를 근무 가능으로 제출한 활성 메이드만 후보로 삼고, 이미 통보한 담당·순서와 관리자가 수동으로 지정한 담당은 바꾸지 않는다.
+6. 각 근무일 전날 밤, 관리자는 `메이드 주간 근무표`에서 대상일의 근무 가능자를 먼저 확인한다. 근무표 바로 다음에는 `동선 고려 랜덤 배정 초안`을 두고, 그 아래에서 객실별 담당과 메이드별 1–N 순서를 세부 수정한다.
+7. 랜덤 초안은 해당 날짜를 근무 가능으로 제출한 활성 메이드와 미배정 청소대상만 사용하며, 이미 통보한 담당·순서와 관리자가 수동으로 지정한 담당은 바꾸지 않는다.
 8. 마감 안에 완료 가능한 객실 수를 최대화하는 것은 배정의 선행 제약이다. 그 최대 배정 후보들 사이의 1순위는 메이드별 `총 청소요금`이 가능한 균형에 가깝게 되도록 나누는 것이다. 총 요금의 최대·최소 격차와 전체 편차가 정확히 같은 후보끼리만 2순위로 같은 엘리베이터 구역과 가까운 호수를 비교한다. 그 다음까지 동률이면 랜덤으로 고르며, 반복 실행이 항상 같은 결과를 내야 하는 결정성은 요구하지 않는다.
-9. 별도의 메이드별 작업량·동선 비교판은 사용하지 않는다. 관리자는 객실별 담당을 직접 바꾸고, 기존 `메이드별 청소 순서` 보드에서 같은 메이드의 객실을 `1번째`부터 끊김 없이 위·아래로 조정한다. 담당을 바꾸면 해당 객실은 새 메이드 순서의 마지막으로 이동하고 양쪽 순서를 1부터 다시 연속화한다.
+9. 랜덤 초안 아래에서 관리자는 `전체`와 확정된 네 객실 타입 필터로 청소대상을 좁혀 보며, 각 타입의 대상 수와 객실당 고정 청소 요금을 확인하고 객실별 담당을 직접 바꾼다. 이어지는 `메이드별 청소 순서` 보드에서는 같은 메이드의 객실을 `1번째`부터 끊김 없이 위·아래로 조정한다. 담당을 바꾸면 해당 객실은 새 메이드 순서의 마지막으로 이동하고 양쪽 순서를 1부터 다시 연속화한다. 필터는 표시만 바꾸고 전체 대상의 담당 상태·미배정 현황·순서를 바꾸지 않으며, 별도의 메이드별 작업량·동선 비교판은 사용하지 않는다.
 10. 담당 선택 목록에는 해당 날짜를 `근무 가능`으로 제출한 메이드만 표시한다. `근무 불가` 또는 `미제출` 메이드는 예외 배정할 수 없으며, 먼저 가능일 변경 요청을 승인해 일정 기록을 바로잡아야 한다.
 11. 모든 청소대상을 다 배정하지 못해도, 담당 메이드와 해당 메이드 안의 연속 청소 순서가 정해진 객실만 먼저 저장·통보할 수 있다. 미배정 객실은 대기 상태로 유지하고 추후 담당을 정한 시점에 추가 통보한다. 배정·순서 변경은 기존 담당 구간과 이전 순서를 삭제하지 않고 변경 이력을 추가한다.
 12. 가능일 제출 버전, 관리자 배정·순서 통보일, 실제 청소 수행 완료일을 서로 다른 기록으로 주차별 보존하고 관리자가 조회 주차(월요일–일요일)를 달력에서 고른 뒤 메이드별 과거 기록을 조회한다. 요약은 기록이 있는 고유 메이드를 `N명`, 메이드별 기록 날짜 합계를 `N일`로 분리하고 두 뜻을 섞은 단위는 사용하지 않는다.
 
 ### 8–10명 운영의 랜덤 배정 초안
 
+- 전날 배정 화면은 `메이드 주간 근무표 → 동선 고려 랜덤 배정 초안 → 객실별 담당 수정 → 메이드별 1–N 순서 수정 → 저장·통보` 순서로 읽힌다. 여기서 `동선 고려`는 실제 이동시간이나 전역 경로 최적화가 아니라, 총 청소요금 점수가 같은 후보에서 엘리베이터 구역과 호수 거리를 보조 기준으로 사용하는 것을 뜻한다. `사전 조건 / 1순위 / 2순위 / 관리자 최종 수정` 설명은 반복 칩으로 늘어놓지 않고 랜덤 배정 제목 옆 `배정 기준` 툴팁 하나에 묶는다.
 - 대상은 해당 근무일을 `가능`으로 제출했고 계정이 활성인 메이드와 아직 담당이 없는 객실만이다. 기존 통보 완료와 관리자 수동 배정은 고정하고 랜덤 초안이 덮지 않는다.
 - 마감 안에 완료 가능한 객실 수를 최대화한 후보만 남긴다. 그 안에서 먼저 메이드별 총 청소요금의 최대·최소 격차와 전체 편차를 줄이고, 금액 점수가 정확히 같은 후보에서만 같은 엘리베이터 구역·가까운 호수를 비교한다. 두 기준까지 같으면 랜덤으로 선택한다.
 - 결과는 `저장 전 초안`이며 메이드 업무·알림·배정 이력을 즉시 만들지 않는다. 관리자는 객실별 담당을 수정하거나 미배정으로 되돌리고, 기존 1–N 순서 보드에서 순서를 수정한 뒤 저장·통보한다.
@@ -53,7 +54,7 @@
 - 객실의 예정 체크인은 `16:00`, 예정 체크아웃은 `11:00`을 기본 기준으로 한다.
 - 예정 체크인이 16:00보다 이르면 `얼리 체크인`, 예정 체크아웃이 11:00보다 늦으면 `레이트 체크아웃`으로 자동 판정한다. 정확히 16:00·11:00이면 각각 기본 상태이며 특수 상태를 표시하지 않는다.
 - 상태와 차이는 별도 수동 선택값이 아니라 실제 예정 시각에서 계산한다. 예를 들어 체크인 15:00은 `얼리 체크인 · 1시간`, 체크아웃 13:00은 `레이트 체크아웃 · 2시간`이다.
-- 객실 카드와 관리자 청소 배정 행에서 얼리·레이트는 조정된 실제 예정 시각과 함께 청소 진행 상태 서브 배지보다 눈에 잘 띄는 일정 배지로 표시한다. 이 배지 자체는 객실 카드 주 상태나 색을 바꾸지 않는다.
+- 객실 카드, 관리자 청소 배정 행, 메이드별 1–N 청소 순서 수정 보드에서 얼리·레이트는 조정된 실제 예정 시각과 함께 청소 진행 상태 서브 배지보다 눈에 잘 띄는 일정 배지로 표시한다. 이 배지 자체는 객실 카드 주 상태나 색을 바꾸지 않는다.
 - 한 고객의 예약 등록·수정 화면은 `체크인 → 체크아웃` 순서로 입력한다. 두 시각은 같은 예약 ID에 속하며 체크아웃은 체크인보다 뒤인 최소 1박 구간이어야 한다.
 - 이전 예약의 체크아웃과 다음 예약의 체크인은 한 고객의 예약 입력값으로 합치지 않는다. 두 예약 사이의 청소 준비 일정에서만 `이전 예약 체크아웃 → 준비 마감 → 다음 예약 체크인`으로 구분해 표시한다.
 - 실제 체크인·체크아웃 시각 구간이 기존 예약과 겹치면 저장하지 않는다. 예약 수정 중 원본 일정이 바뀌거나 취소된 경우에도 오래된 화면으로 덮어쓰거나 신규 예약으로 바꾸지 않고 최신 예약을 다시 열도록 안내한다.
@@ -105,7 +106,7 @@
 - 전체와 네 객실 타입별로 청소대상을 좁혀 보고 각 타입의 대상 수·객실당 고정 청소 요금을 확인할 수 있다. 타입 필터에 숨은 객실도 전체 대상·미배정 현황과 부분 통보 판단에 유지한다.
 - 자동 대상 외 청소대상을 직접 등록할 수 있으며 자동·직접 등록 근거를 바꾸거나 숨기지 않는다.
 - 다음 날 청소 대상 객실의 담당을 생성·변경·보류할 수 있다.
-- 랜덤 배정 초안을 만들고, 객실별 담당을 직접 수정하며, 기존 메이드별 청소 순서 보드에서 1–N 순서를 지정·변경할 수 있다. 별도 작업량·동선 비교판은 제공하지 않고, 미배정 객실에는 순서를 부여하지 않는다.
+- `메이드 주간 근무표` 바로 다음의 동선 고려 랜덤 배정 초안을 만들고, 그 아래에서 객실별 담당을 직접 수정하며, 기존 메이드별 청소 순서 보드에서 1–N 순서를 지정·변경할 수 있다. 배정 기준 상세는 제목 옆 접근 가능한 툴팁으로 확인하며, 별도 기준 칩 줄·작업량·동선 비교판은 제공하지 않고 미배정 객실에는 순서를 부여하지 않는다.
 - 담당과 연속 순서가 유효한 객실만 먼저 저장·통보하고, 아직 배정하지 못한 객실은 삭제하거나 임의 배정하지 않고 대기 상태로 남긴다.
 - 해당 근무일을 `가능`으로 제출한 메이드만 배정 후보로 본다.
 - 근무 불가·미제출 메이드를 담당 선택 목록이나 직접 배정 목록에 노출하지 않는다.
@@ -164,7 +165,7 @@
 - 관리자는 모든 객실 상세에서 읽기 전용 호수와 수정 가능한 객실 타입·엘리베이터 위치를 본다. 저장한 변경은 목록·상세·청소대상·랜덤 배정 초안에 반영되고 기존 작업 스냅샷은 바뀌지 않는다.
 - 객실 목록·상세의 정상 점유 구분은 `투숙 / 공실`이며 장기투숙 전용 상태·필터·패널은 없다. 카드 주 상태는 `투숙 중(회색) / 청소 필요(주황) / 배정 가능(초록) / 배정 불가(빨강)` 중 하나만 보이고 기존 상세 사유와 청소 진행 단계는 서브 배지로 분리된다.
 - 투숙 객실에서 예정 체크아웃 전 `지금 체크아웃`하면 예정 시각을 보존한 채 실제 체크아웃 이벤트가 한 번 기록되고 점유 `공실`, 카드 주 상태 `청소 필요`, 퇴실 청소 한 건으로 전환된다. 이후 예정 시각이 되어도 점유 종료와 작업이 중복되지 않는다.
-- 객실별 담당 선택에는 객실 호수·객실 타입·청소 요금이 항상 보이고, 얼리 체크인·레이트 체크아웃이 있으면 조정 체크인·체크아웃 시각과 기준 대비 차이를 청소 진행 서브 배지보다 눈에 잘 띄는 일정 배지로 함께 보여준다.
+- 객실별 담당 선택에는 객실 호수·객실 타입·청소 요금이 항상 보인다. 얼리 체크인·레이트 체크아웃이 있으면 객실별 담당 선택과 메이드별 1–N 순서 수정 양쪽에 조정 체크인·체크아웃 시각과 기준 대비 차이를 청소 진행 서브 배지보다 눈에 잘 띄는 일정 배지로 함께 보여준다.
 - 전체와 네 객실 타입 필터에는 대상 수와 객실당 고정 청소 요금이 보이고, 필터를 바꿔도 메이드별 전체 순서·미배정 수·부분 통보 대상은 변하지 않는다.
 - 체크인 15:00은 `얼리 체크인 · 1시간`, 체크인 16:00은 기본 체크인으로 자동 판정되며 수동 얼리 선택값은 없다.
 - 체크아웃 13:00은 `레이트 체크아웃 · 2시간`, 체크아웃 11:00은 기본 체크아웃으로 자동 판정되며 수동 레이트 선택값은 없다.
@@ -172,6 +173,8 @@
 - 이전 예약 체크아웃과 다음 예약 체크인을 한 예약 입력으로 조합하지 않는다. 다음 예약 체크인 변경·취소 시 직전 퇴실 청소 일정은 중복 작업 없이 재계산되고, 기존 통보가 있으면 재통보 대상으로 바뀐다.
 - 예약 시각 변경 결과가 객실 카드·상세·필터와 청소 배정 일정에서 동일해야 한다.
 - 담당 목록에는 해당 날짜 `가능` 제출자만 보이며 `불가`·`미제출` 메이드는 선택지에 없다.
+- 전날 배정 화면은 `메이드 주간 근무표 → 동선 고려 랜덤 배정 초안 → 객실별 담당 수정 → 메이드별 1–N 순서 수정 → 저장·통보` 순서이며, 네 반응형 너비에서 이 순서가 바뀌지 않는다.
+- 랜덤 배정 카드에는 기준 칩을 상시 노출하지 않는다. `랜덤 배정 기준 설명` 버튼의 hover·focus에서 사전 조건·요금 균형·엘리베이터와 호수·관리자 최종 수정·실제 이동시간 비최적화 설명을 한 툴팁으로 확인하고, 버튼과 툴팁은 접근성 이름·연결 설명을 가진다.
 - 8–10명 규모에서 랜덤 초안 후보는 근무 가능·활성 메이드만 포함하고, 기존 통보·관리자 수동 배정을 덮지 않은 채 미배정 객실만 채우는지 검증한다.
 - 마감 안에 완료 가능한 객실 수를 먼저 최대화하고, 그 최대 배정 후보 안에서 총 청소요금 격차·전체 편차를 절대 1순위로 비교하며, 금액 점수가 같은 후보에서만 엘리베이터 구역·가까운 호수, 그 다음 랜덤 선택이 적용되는지 검증한다. 반복 실행 결과가 항상 같아야 하는 결정성은 검증 기준이 아니다.
 - 초안 직후에는 메이드 업무·알림·배정 이력이 증가하지 않는다. 관리자가 객실별 담당과 기존 1–N 순서를 수정해 일부만 저장하면 선택된 변경만 통보되고 나머지는 미배정 대기를 유지한다.
